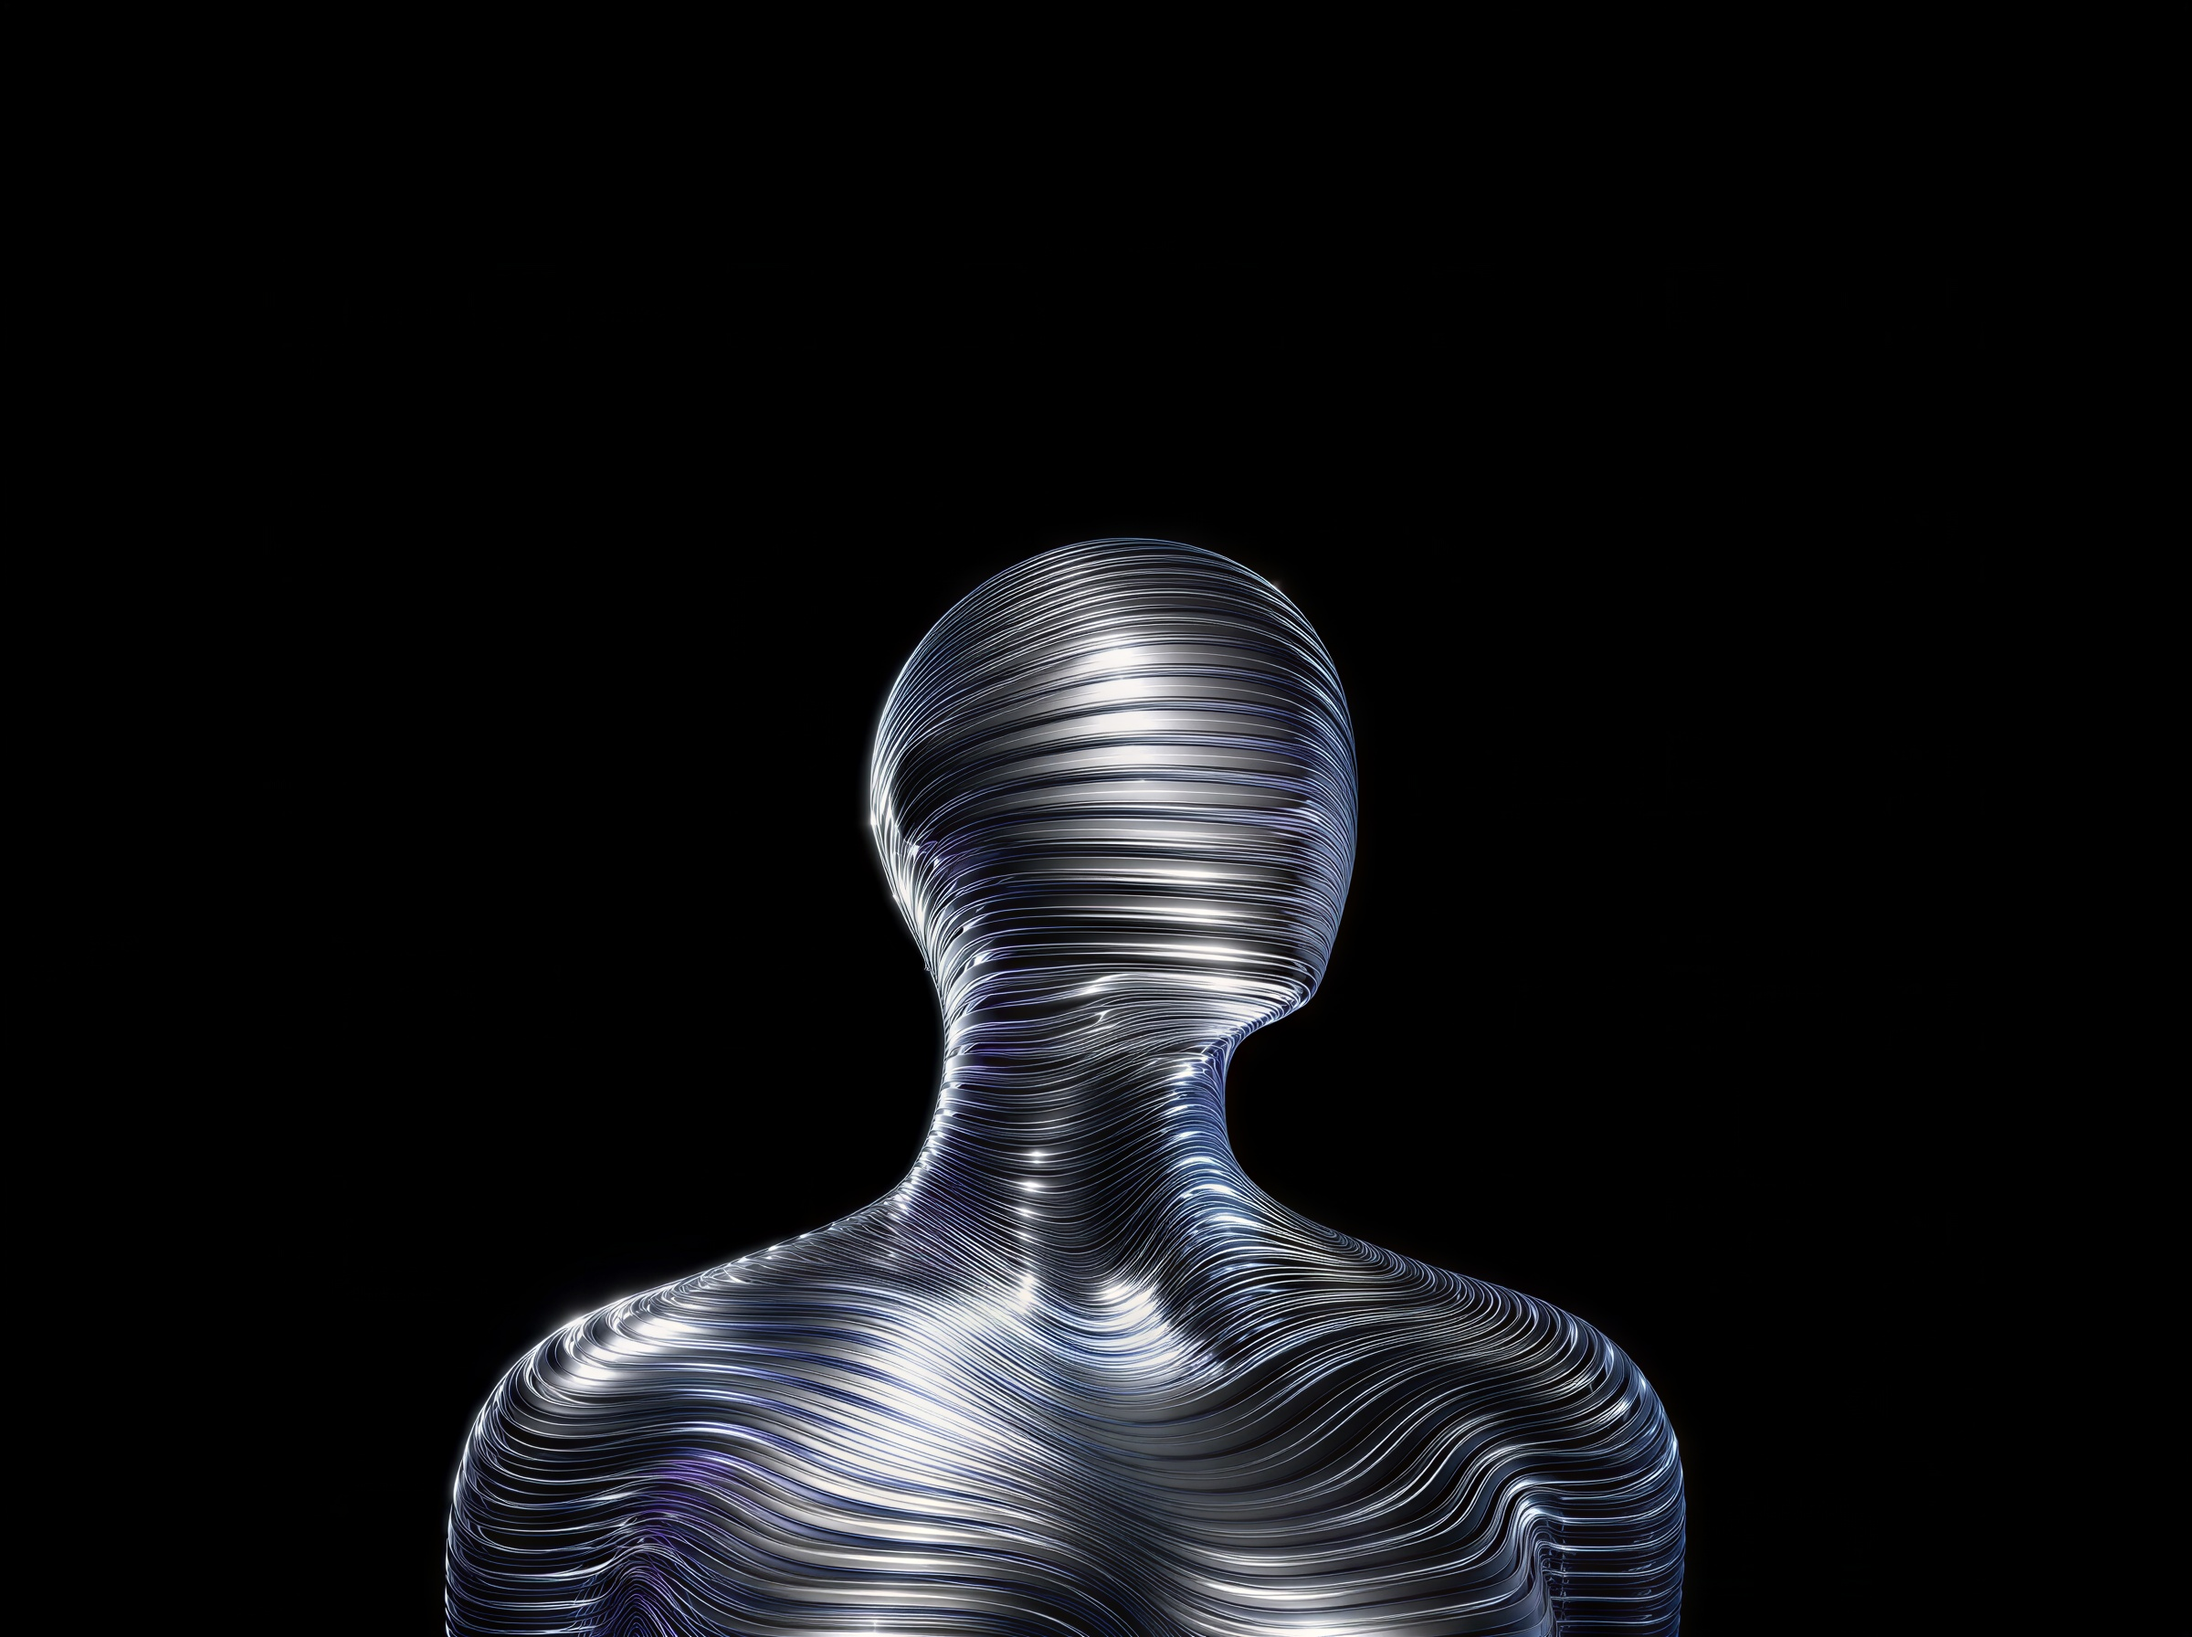
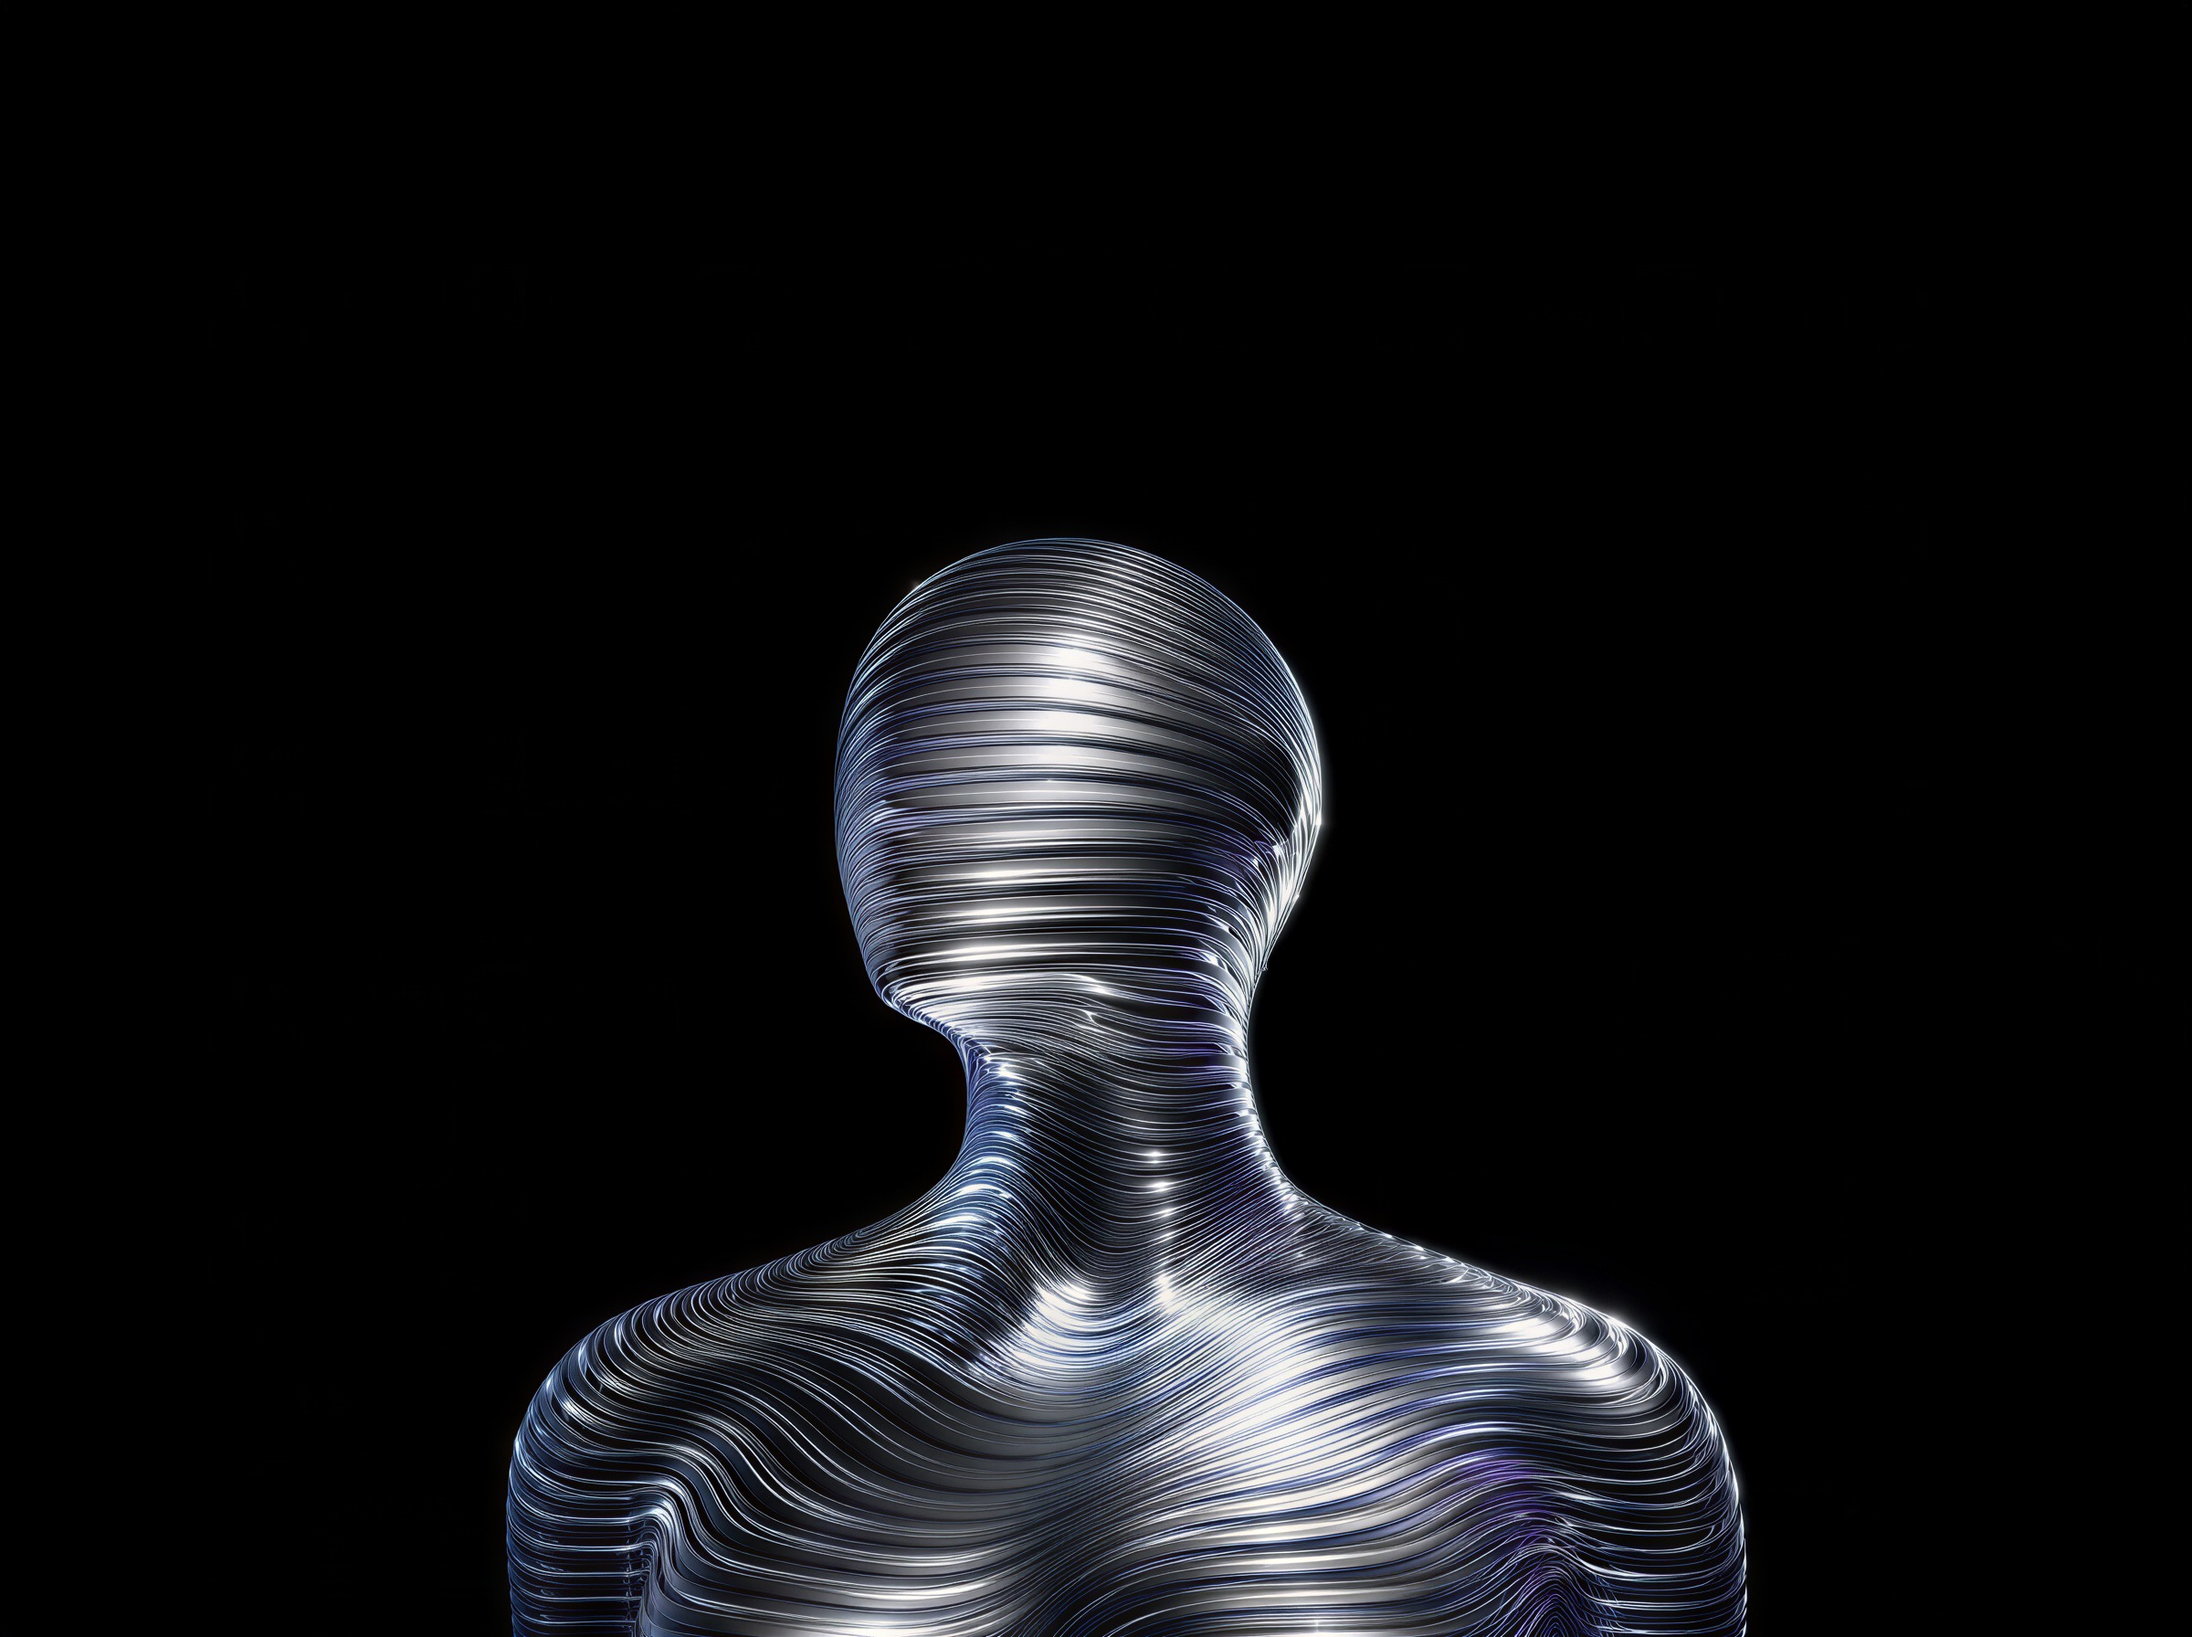
Turn metal face to left matching attached image, raise NIRANJAN closer to face, lower KRISHNAKUMAR

Changed region(s): [[0.1875, 0.3125, 0.8125, 1.0]]

diff --git a/final copy 2.html b/final copy 2.html
@@ -15889,11 +15889,11 @@ Error generating stack: ` + x.message + `
 
   function HeroName() {
     return /* @__PURE__ */ jsx_runtime.jsxs("div", {
-      className: "hero__split-wrapper relative z-10 w-full flex flex-col md:flex-row items-center justify-between my-auto px-4 md:px-8 lg:px-14 pointer-events-none py-2",
+      className: "hero__split-wrapper relative z-10 w-full flex flex-col md:flex-row items-center justify-between my-auto px-4 md:px-8 lg:px-12 pointer-events-none py-2",
       children: [
         /* Left Flank: NIRANJAN (a bit up & closer towards the metal face without overlapping) */
         /* @__PURE__ */ jsx_runtime.jsx("div", {
-          className: "hero__flank hero__flank--left flex flex-col items-center md:items-end text-center md:text-right pointer-events-auto z-10 md:-translate-y-8 lg:-translate-y-12 md:translate-x-6 lg:translate-x-10 fade-up",
+          className: "hero__flank hero__flank--left flex flex-col items-center md:items-end text-center md:text-right pointer-events-auto z-10 md:-translate-y-14 lg:-translate-y-20 md:translate-x-10 lg:translate-x-16 xl:translate-x-20 fade-up",
           style: { transitionDelay: ".1s" },
           children: /* @__PURE__ */ jsx_runtime.jsx("h1", {
             className: "hero__flank-title display",
@@ -15909,13 +15909,13 @@ Error generating stack: ` + x.message + `
 
         /* Center Sculpture Clearance Spacer */
         /* @__PURE__ */ jsx_runtime.jsx("div", {
-          className: "hero__sculpture-spacer hidden md:block flex-1 min-w-[180px] lg:min-w-[260px] xl:min-w-[320px] pointer-events-none",
+          className: "hero__sculpture-spacer hidden md:block flex-1 min-w-[140px] lg:min-w-[200px] xl:min-w-[260px] pointer-events-none",
           "aria-hidden": "true"
         }),
 
-        /* Right Flank: KRISHNAKUMAR (a bit down & clear of metal head) */
+        /* Right Flank: KRISHNAKUMAR (a bit down, well clear of head contours) */
         /* @__PURE__ */ jsx_runtime.jsx("div", {
-          className: "hero__flank hero__flank--right flex flex-col items-center md:items-start text-center md:text-left pointer-events-auto z-10 md:translate-y-10 lg:translate-y-14 md:translate-x-2 fade-up",
+          className: "hero__flank hero__flank--right flex flex-col items-center md:items-start text-center md:text-left pointer-events-auto z-10 md:translate-y-16 lg:translate-y-24 md:translate-x-2 fade-up",
           style: { transitionDelay: ".2s" },
           children: /* @__PURE__ */ jsx_runtime.jsx("h1", {
             className: "hero__flank-title display",

diff --git a/final copy.html b/final copy.html
@@ -15889,11 +15889,11 @@ Error generating stack: ` + x.message + `
 
   function HeroName() {
     return /* @__PURE__ */ jsx_runtime.jsxs("div", {
-      className: "hero__split-wrapper relative z-10 w-full flex flex-col md:flex-row items-center justify-between my-auto px-4 md:px-8 lg:px-14 pointer-events-none py-2",
+      className: "hero__split-wrapper relative z-10 w-full flex flex-col md:flex-row items-center justify-between my-auto px-4 md:px-8 lg:px-12 pointer-events-none py-2",
       children: [
         /* Left Flank: NIRANJAN (a bit up & closer towards the metal face without overlapping) */
         /* @__PURE__ */ jsx_runtime.jsx("div", {
-          className: "hero__flank hero__flank--left flex flex-col items-center md:items-end text-center md:text-right pointer-events-auto z-10 md:-translate-y-8 lg:-translate-y-12 md:translate-x-6 lg:translate-x-10 fade-up",
+          className: "hero__flank hero__flank--left flex flex-col items-center md:items-end text-center md:text-right pointer-events-auto z-10 md:-translate-y-14 lg:-translate-y-20 md:translate-x-10 lg:translate-x-16 xl:translate-x-20 fade-up",
           style: { transitionDelay: ".1s" },
           children: /* @__PURE__ */ jsx_runtime.jsx("h1", {
             className: "hero__flank-title display",
@@ -15909,13 +15909,13 @@ Error generating stack: ` + x.message + `
 
         /* Center Sculpture Clearance Spacer */
         /* @__PURE__ */ jsx_runtime.jsx("div", {
-          className: "hero__sculpture-spacer hidden md:block flex-1 min-w-[180px] lg:min-w-[260px] xl:min-w-[320px] pointer-events-none",
+          className: "hero__sculpture-spacer hidden md:block flex-1 min-w-[140px] lg:min-w-[200px] xl:min-w-[260px] pointer-events-none",
           "aria-hidden": "true"
         }),
 
-        /* Right Flank: KRISHNAKUMAR (a bit down & clear of metal head) */
+        /* Right Flank: KRISHNAKUMAR (a bit down, well clear of head contours) */
         /* @__PURE__ */ jsx_runtime.jsx("div", {
-          className: "hero__flank hero__flank--right flex flex-col items-center md:items-start text-center md:text-left pointer-events-auto z-10 md:translate-y-10 lg:translate-y-14 md:translate-x-2 fade-up",
+          className: "hero__flank hero__flank--right flex flex-col items-center md:items-start text-center md:text-left pointer-events-auto z-10 md:translate-y-16 lg:translate-y-24 md:translate-x-2 fade-up",
           style: { transitionDelay: ".2s" },
           children: /* @__PURE__ */ jsx_runtime.jsx("h1", {
             className: "hero__flank-title display",

diff --git a/final.html b/final.html
@@ -15889,11 +15889,11 @@ Error generating stack: ` + x.message + `
 
   function HeroName() {
     return /* @__PURE__ */ jsx_runtime.jsxs("div", {
-      className: "hero__split-wrapper relative z-10 w-full flex flex-col md:flex-row items-center justify-between my-auto px-4 md:px-8 lg:px-14 pointer-events-none py-2",
+      className: "hero__split-wrapper relative z-10 w-full flex flex-col md:flex-row items-center justify-between my-auto px-4 md:px-8 lg:px-12 pointer-events-none py-2",
       children: [
         /* Left Flank: NIRANJAN (a bit up & closer towards the metal face without overlapping) */
         /* @__PURE__ */ jsx_runtime.jsx("div", {
-          className: "hero__flank hero__flank--left flex flex-col items-center md:items-end text-center md:text-right pointer-events-auto z-10 md:-translate-y-8 lg:-translate-y-12 md:translate-x-6 lg:translate-x-10 fade-up",
+          className: "hero__flank hero__flank--left flex flex-col items-center md:items-end text-center md:text-right pointer-events-auto z-10 md:-translate-y-14 lg:-translate-y-20 md:translate-x-10 lg:translate-x-16 xl:translate-x-20 fade-up",
           style: { transitionDelay: ".1s" },
           children: /* @__PURE__ */ jsx_runtime.jsx("h1", {
             className: "hero__flank-title display",
@@ -15909,13 +15909,13 @@ Error generating stack: ` + x.message + `
 
         /* Center Sculpture Clearance Spacer */
         /* @__PURE__ */ jsx_runtime.jsx("div", {
-          className: "hero__sculpture-spacer hidden md:block flex-1 min-w-[180px] lg:min-w-[260px] xl:min-w-[320px] pointer-events-none",
+          className: "hero__sculpture-spacer hidden md:block flex-1 min-w-[140px] lg:min-w-[200px] xl:min-w-[260px] pointer-events-none",
           "aria-hidden": "true"
         }),
 
-        /* Right Flank: KRISHNAKUMAR (a bit down & clear of metal head) */
+        /* Right Flank: KRISHNAKUMAR (a bit down, well clear of head contours) */
         /* @__PURE__ */ jsx_runtime.jsx("div", {
-          className: "hero__flank hero__flank--right flex flex-col items-center md:items-start text-center md:text-left pointer-events-auto z-10 md:translate-y-10 lg:translate-y-14 md:translate-x-2 fade-up",
+          className: "hero__flank hero__flank--right flex flex-col items-center md:items-start text-center md:text-left pointer-events-auto z-10 md:translate-y-16 lg:translate-y-24 md:translate-x-2 fade-up",
           style: { transitionDelay: ".2s" },
           children: /* @__PURE__ */ jsx_runtime.jsx("h1", {
             className: "hero__flank-title display",

diff --git a/index.html b/index.html
@@ -15889,11 +15889,11 @@ Error generating stack: ` + x.message + `
 
   function HeroName() {
     return /* @__PURE__ */ jsx_runtime.jsxs("div", {
-      className: "hero__split-wrapper relative z-10 w-full flex flex-col md:flex-row items-center justify-between my-auto px-4 md:px-8 lg:px-14 pointer-events-none py-2",
+      className: "hero__split-wrapper relative z-10 w-full flex flex-col md:flex-row items-center justify-between my-auto px-4 md:px-8 lg:px-12 pointer-events-none py-2",
       children: [
         /* Left Flank: NIRANJAN (a bit up & closer towards the metal face without overlapping) */
         /* @__PURE__ */ jsx_runtime.jsx("div", {
-          className: "hero__flank hero__flank--left flex flex-col items-center md:items-end text-center md:text-right pointer-events-auto z-10 md:-translate-y-8 lg:-translate-y-12 md:translate-x-6 lg:translate-x-10 fade-up",
+          className: "hero__flank hero__flank--left flex flex-col items-center md:items-end text-center md:text-right pointer-events-auto z-10 md:-translate-y-14 lg:-translate-y-20 md:translate-x-10 lg:translate-x-16 xl:translate-x-20 fade-up",
           style: { transitionDelay: ".1s" },
           children: /* @__PURE__ */ jsx_runtime.jsx("h1", {
             className: "hero__flank-title display",
@@ -15909,13 +15909,13 @@ Error generating stack: ` + x.message + `
 
         /* Center Sculpture Clearance Spacer */
         /* @__PURE__ */ jsx_runtime.jsx("div", {
-          className: "hero__sculpture-spacer hidden md:block flex-1 min-w-[180px] lg:min-w-[260px] xl:min-w-[320px] pointer-events-none",
+          className: "hero__sculpture-spacer hidden md:block flex-1 min-w-[140px] lg:min-w-[200px] xl:min-w-[260px] pointer-events-none",
           "aria-hidden": "true"
         }),
 
-        /* Right Flank: KRISHNAKUMAR (a bit down & clear of metal head) */
+        /* Right Flank: KRISHNAKUMAR (a bit down, well clear of head contours) */
         /* @__PURE__ */ jsx_runtime.jsx("div", {
-          className: "hero__flank hero__flank--right flex flex-col items-center md:items-start text-center md:text-left pointer-events-auto z-10 md:translate-y-10 lg:translate-y-14 md:translate-x-2 fade-up",
+          className: "hero__flank hero__flank--right flex flex-col items-center md:items-start text-center md:text-left pointer-events-auto z-10 md:translate-y-16 lg:translate-y-24 md:translate-x-2 fade-up",
           style: { transitionDelay: ".2s" },
           children: /* @__PURE__ */ jsx_runtime.jsx("h1", {
             className: "hero__flank-title display",
